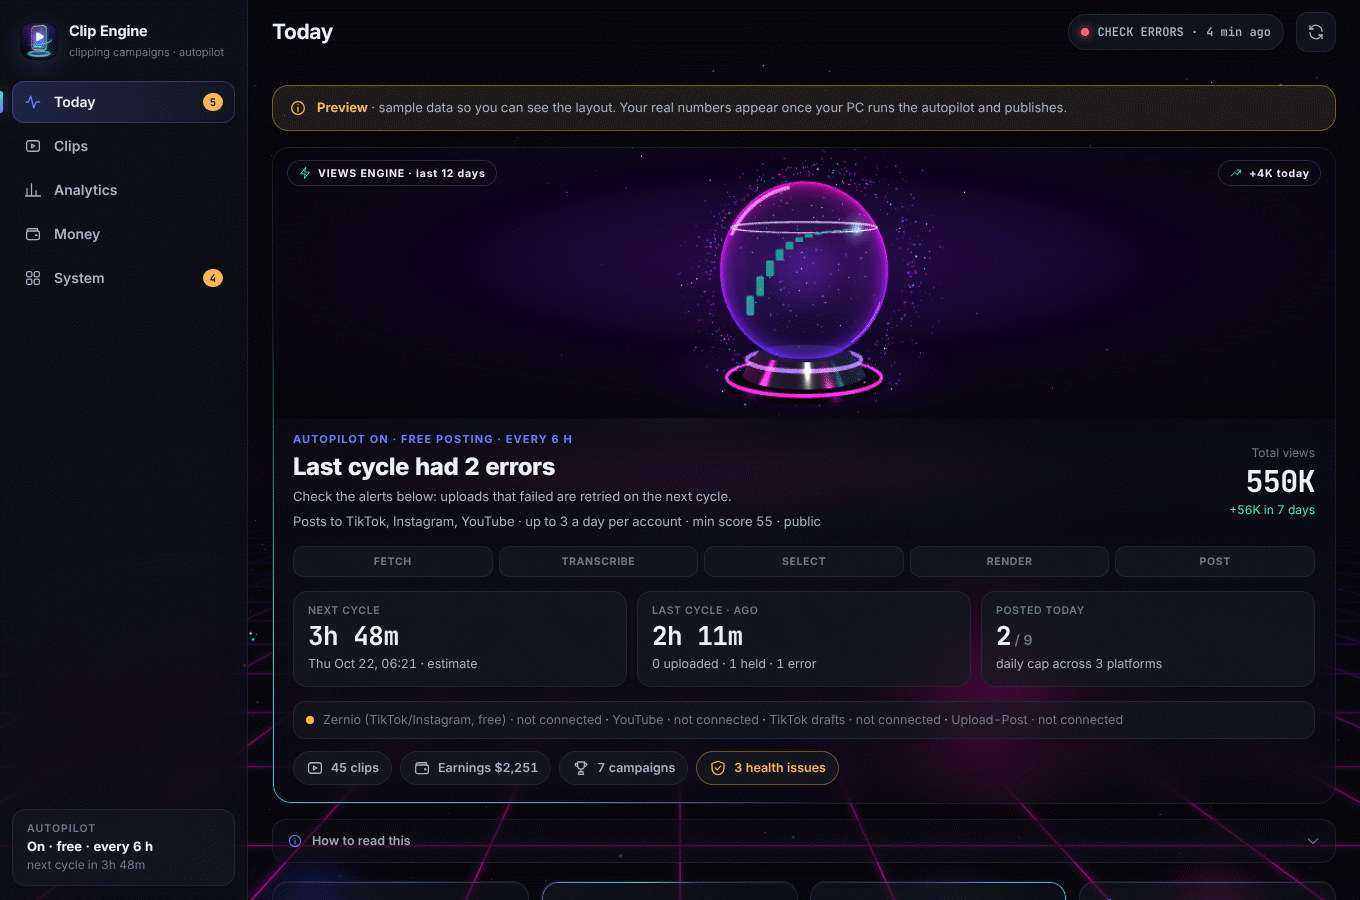
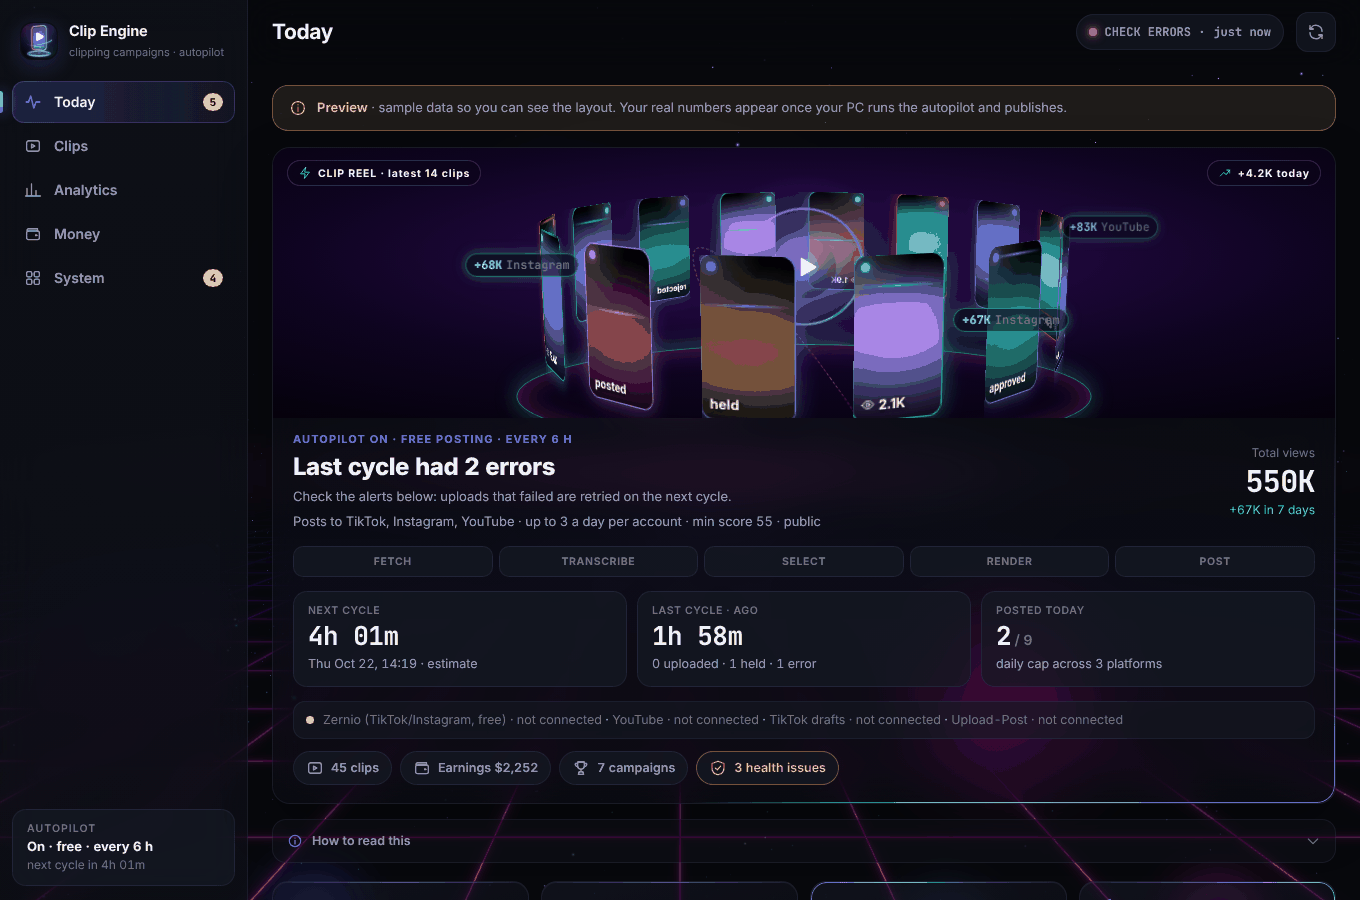
Dashboard: 3D clip reel hero replaces the candle orb
The latest clips orbit as 9:16 cards around a holographic play core with
recent view gains rising off the ring; drag to spin, tap to open a clip.
The candle globe stays the NQ dashboard's own.

Claude-Session: https://claude.ai/code/session_012xr9Sjrns9iSfpq9jZu7Lw

diff --git a/clipper/dashboard_page.html b/clipper/dashboard_page.html
@@ -495,9 +495,40 @@ html[data-fx="max"] .card :is(.stat, .item), html.bg2on .card :is(.stat, .item) 
 .hero3d { position: relative; height: 270px; margin: -18px -20px 14px; background: radial-gradient(90% 80% at 50% 40%, #2c0a52, #0e0420 55%, #030107); overflow: hidden; touch-action: pan-y; }
 .hero3d .fx-canvas { display: block; position: absolute; inset: 0; width: 100% !important; height: 100% !important; }
 .fx3d .fx-canvas { width: 100% !important; height: 100% !important; }
-.hero3d .orbfb { position: absolute; inset: 0; display: grid; place-items: center; }
-.hero3d .orbfb svg { width: min(100%, 520px); height: 100%; overflow: visible; }
-.hero3d.fx-live .orbfb { display: none; }
+/* the reel ring: the latest clips as 9:16 cards orbiting a holographic play core; drag to spin, tap to open */
+.reel { position: absolute; inset: 0; perspective: 900px; perspective-origin: 50% 38%; cursor: grab; user-select: none; -webkit-user-select: none; --R: 250px; --cw: 70px; }
+.reel.drag { cursor: grabbing; }
+.reel-stage { position: absolute; left: 50%; top: 50%; width: 0; height: 0; transform-style: preserve-3d; transform: translateY(-6px) rotateX(-9deg) rotateY(var(--drag, 0deg)); transition: transform .5s var(--ease); }
+.reel.drag .reel-stage { transition: none; }
+.reel-ring { position: absolute; transform-style: preserve-3d; animation: reelspin 46s linear infinite; }
+.reel:hover .reel-ring, .reel.drag .reel-ring { animation-play-state: paused; }
+@keyframes reelspin { to { transform: rotateY(-360deg); } }
+.rc { position: absolute; left: calc(var(--cw) / -2); top: calc(var(--cw) * -.89); width: var(--cw); aspect-ratio: 9 / 16; border-radius: 10px; overflow: hidden; padding: 0; border: 0;
+  transform: rotateY(var(--a)) translateZ(var(--R)); background: linear-gradient(160deg, #241552, #0b0620); box-shadow: 0 0 0 1px color-mix(in srgb, var(--c) 70%, transparent), 0 0 18px color-mix(in srgb, var(--c) 45%, transparent); cursor: pointer; }
+.rc img { width: 100%; height: 100%; object-fit: cover; display: block; pointer-events: none; }
+.rc::after { content: ""; position: absolute; inset: 0; background: linear-gradient(115deg, rgba(255,255,255,.22), transparent 38%), linear-gradient(0deg, rgba(5,2,15,.85), transparent 45%); pointer-events: none; }
+.rc b svg { vertical-align: -1px; margin-right: 3px; }
+.rc b { position: absolute; left: 6px; right: 6px; bottom: 5px; z-index: 1; font: 700 10.5px var(--sans); color: #fff; text-align: left; white-space: nowrap; overflow: hidden; text-overflow: ellipsis; text-shadow: 0 1px 4px #000; }
+.rc i { position: absolute; top: 5px; left: 5px; z-index: 1; width: 7px; height: 7px; border-radius: 50%; background: var(--c); box-shadow: 0 0 8px var(--c); }
+.rc.empty { background: repeating-linear-gradient(0deg, rgba(255,255,255,.03) 0 6px, transparent 6px 12px), linear-gradient(160deg, #1a1040, #08041a); }
+.rc.empty b { color: var(--muted); font-weight: 600; }
+.rc .scan { position: absolute; left: 0; right: 0; height: 2px; top: 0; z-index: 1; background: linear-gradient(90deg, transparent, var(--c), transparent); opacity: .8; animation: rcscan 3.2s linear infinite; animation-delay: var(--d, 0s); }
+@keyframes rcscan { from { transform: translateY(0); } to { transform: translateY(calc(var(--cw) * 1.78)); } }
+.reel-core { position: absolute; left: -46px; top: -56px; width: 92px; height: 92px; transform: translateZ(0); display: grid; place-items: center; pointer-events: none; }
+.reel-core::before { content: ""; position: absolute; inset: -14px; border-radius: 50%; background: conic-gradient(from 0deg, #ff4fd8, #7c6cff, #3ee0c8, #ff4fd8); filter: blur(1px); opacity: .9; animation: corespin 6s linear infinite;
+  -webkit-mask: radial-gradient(farthest-side, transparent calc(100% - 3px), #000 calc(100% - 2px)); mask: radial-gradient(farthest-side, transparent calc(100% - 3px), #000 calc(100% - 2px)); }
+.reel-core::after { content: ""; position: absolute; inset: -40px; border-radius: 50%; background: radial-gradient(closest-side, rgba(124,108,255,.45), transparent); animation: corepulse 2.6s ease-in-out infinite; }
+@keyframes corespin { to { transform: rotate(360deg); } }
+@keyframes corepulse { 50% { transform: scale(1.18); opacity: .55; } }
+.reel-core span { position: relative; z-index: 1; width: 64px; height: 64px; border-radius: 50%; display: grid; place-items: center; background: radial-gradient(circle at 35% 30%, rgba(255,255,255,.35), rgba(124,108,255,.25) 45%, rgba(10,4,30,.85)); box-shadow: inset 0 0 18px rgba(255,255,255,.18), 0 0 30px rgba(124,108,255,.6); }
+.reel-core svg { width: 26px; height: 26px; margin-left: 4px; filter: drop-shadow(0 0 8px #9ffff0); }
+.reel-floor { position: absolute; left: 50%; top: 50%; width: calc(var(--R) * 2.3); height: calc(var(--R) * .42); transform: translate(-50%, 58%); border-radius: 50%; pointer-events: none;
+  border: 1.5px solid rgba(62,224,200,.55); box-shadow: 0 0 22px rgba(62,224,200,.35), inset 0 0 26px rgba(255,79,216,.25); }
+.reel-floor::after { content: ""; position: absolute; inset: 18%; border-radius: 50%; border: 1px dashed rgba(255,79,216,.45); animation: corespin 30s linear infinite; }
+.reel-pop { position: absolute; left: var(--x); bottom: 26%; z-index: 2; pointer-events: none; font: 700 12px var(--mono, monospace); color: #9ffff0; padding: 3px 8px; border-radius: 99px; background: rgba(8,20,30,.6); border: 1px solid rgba(62,224,200,.45);
+  box-shadow: 0 0 14px rgba(62,224,200,.35); opacity: 0; animation: reelpop 7s ease-out infinite; animation-delay: var(--d); white-space: nowrap; }
+.reel-pop em { font-style: normal; color: var(--muted); font-weight: 600; margin-left: 4px; }
+@keyframes reelpop { 0% { opacity: 0; transform: translateY(20px) scale(.9); } 10% { opacity: 1; transform: translateY(0) scale(1); } 45% { opacity: 1; } 60%, 100% { opacity: 0; transform: translateY(-120px) scale(.96); } }
 .orb-spin { transform-origin: 260px 135px; animation: orbspin 14s linear infinite; } .orb-spin2 { transform-origin: 260px 135px; animation: orbspin 22s linear infinite reverse; }
 @keyframes orbspin { to { transform: rotate(360deg); } }
 .orb-float { animation: floaty2 6s ease-in-out infinite; } @keyframes floaty2 { 0%, 100% { transform: translateY(-4px); } 50% { transform: translateY(4px); } }
@@ -561,6 +592,7 @@ html:not([data-fx="off"]) .page.entering > .card, html:not([data-fx="off"]) .pag
   .page { padding: 14px var(--gutter) calc(100px + env(safe-area-inset-bottom)); }
   .card, .tile, .stat { backdrop-filter: none; -webkit-backdrop-filter: none; }
   .hero3d { height: 230px; margin: -14px -15px 12px; } .hero-tag.r { top: auto; bottom: 12px; }
+  .reel { --R: 150px; --cw: 54px; } .reel-core { transform: translateZ(0) scale(.78); } .reel-pop:nth-of-type(n+4) { display: none; }
   .card { padding: 14px 15px; border-radius: 16px; }
   .g2, .g3, .g21, .g12 { grid-template-columns: 1fr; } .span2 { grid-column: auto; }
   .grid { gap: 12px; margin-bottom: 12px; }
@@ -1155,29 +1187,29 @@ function bgFrame(now) {
 addEventListener('resize', () => { if (document.documentElement.classList.contains('bg2on')) { bgSize(); if (!BG.raf) BG.raf = requestAnimationFrame(bgFrame); } });
 document.addEventListener('visibilitychange', () => { if (!document.hidden && document.documentElement.classList.contains('bg2on') && !BG.raf) BG.raf = requestAnimationFrame(bgFrame); });
 
-// the hero orb's 2D stand-in: daily view gains as glowing columns inside a glass sphere with two rings
-function orbFb(gains) {
-  const g = gains.slice(-12), mx = Math.max(1, ...g.map(x => x.v)), n = g.length, cx = 260, cy = 135, R = 96, id = uid('o');
-  const bw = n ? 120 / n : 10;
-  return `<svg viewBox="0 0 520 270" preserveAspectRatio="xMidYMid meet" aria-hidden="true"><defs>
-      <radialGradient id="${id}g" cx="40%" cy="32%" r="75%"><stop offset="0" stop-color="#fff" stop-opacity=".22"/><stop offset=".35" stop-color="var(--accent)" stop-opacity=".22"/><stop offset="1" stop-color="#0a0418" stop-opacity=".2"/></radialGradient>
-      <linearGradient id="${id}b" x1="0" x2="0" y1="0" y2="1"><stop offset="0" stop-color="#9ffff0"/><stop offset="1" stop-color="var(--accent)" stop-opacity=".35"/></linearGradient>
-      <filter id="${id}f" x="-50%" y="-50%" width="200%" height="200%"><feGaussianBlur stdDeviation="6"/></filter>
-      <clipPath id="${id}c"><circle cx="${cx}" cy="${cy}" r="${R - 4}"/></clipPath></defs>
-    <circle cx="${cx}" cy="${cy}" r="${R + 30}" fill="var(--accent)" opacity=".10" filter="url(#${id}f)"/>
-    <g class="orb-float">
-      <circle cx="${cx}" cy="${cy}" r="${R}" fill="url(#${id}g)" stroke="rgba(200,190,255,.35)" stroke-width="1.2"/>
-      <g clip-path="url(#${id}c)">${g.map((d, i) => { const h = 12 + 110 * d.v / mx, x = cx - 60 + i * bw + bw * .18; return `<rect x="${x.toFixed(1)}" y="${(cy + 50 - h).toFixed(1)}" width="${(bw * .64).toFixed(1)}" height="${h.toFixed(1)}" rx="2" fill="url(#${id}b)" opacity="${(.55 + .45 * (i + 1) / n).toFixed(2)}"/>`; }).join('')}
-        <line x1="${cx - 90}" x2="${cx + 90}" y1="${cy + 50}" y2="${cy + 50}" stroke="rgba(255,255,255,.35)"/></g>
-      <g class="orb-spin"><ellipse cx="${cx}" cy="${cy}" rx="${R + 34}" ry="22" fill="none" stroke="var(--accent-2)" stroke-opacity=".55" stroke-width="1.4" transform="rotate(-14 ${cx} ${cy})"/><circle cx="${cx + R + 34}" cy="${cy}" r="3.5" fill="#9ffff0" transform="rotate(-14 ${cx} ${cy})"/></g>
-      <g class="orb-spin2"><ellipse cx="${cx}" cy="${cy}" rx="${R + 58}" ry="34" fill="none" stroke="var(--accent)" stroke-opacity=".35" stroke-width="1" stroke-dasharray="2 6" transform="rotate(10 ${cx} ${cy})"/></g>
-      <ellipse cx="${cx - 30}" cy="${cy - 52}" rx="34" ry="14" fill="#fff" opacity=".10" transform="rotate(-24 ${cx - 30} ${cy - 52})"/>
-    </g></svg>`;
+// the hero: the latest clips as 9:16 cards on a slowly turning 3D ring around a play core, with recent view gains rising off it
+function reelHTML() {
+  const all = [...CLIPS()].sort((x, y) => (!!y.thumb - !!x.thumb) || (tms(y.created) || 0) - (tms(x.created) || 0));
+  const n = Math.max(10, Math.min(14, all.length)), cards = [];
+  for (let i = 0; i < n; i++) {
+    const c = all[i], a = (360 / n) * i, p = c && (c.uploads || [])[0]?.platform, col = p ? pcol(p) : 'var(--accent)', d = `--a:${a.toFixed(1)}deg;--c:${col};--d:${(i * .37).toFixed(2)}s`;
+    cards.push(c ? `<button type="button" class="rc" data-clip="${esc(c.id)}" style="${d}" aria-label="${esc(c.title)}">${c.thumb ? `<img src="${esc(c.thumb)}" alt="" loading="lazy" decoding="async" onerror="this.remove()">` : ''}<i></i><span class="scan"></span><b>${(c.uploads || []).some(u => u.state === 'live') ? icon('eye', 11) + kfmt(c.views || 0) : esc((STATUS[c.status] || [c.status || ''])[0])}</b></button>`
+      : `<span class="rc empty" style="${d}"><span class="scan"></span><b>next clip</b></span>`);
+  }
+  const pops = all.filter(c => c.views).sort((x, y) => y.views - x.views).slice(0, 6)
+    .map((c, i) => `<span class="reel-pop" style="--x:${[8, 74, 18, 64, 38, 84][i]}%;--d:${(i * 1.17).toFixed(2)}s">+${kfmt(c.views)}<em>${esc(pname((c.uploads || [])[0]?.platform || ''))}</em></span>`).join('');
+  return `<div class="reel" id="reel"><div class="reel-floor"></div><div class="reel-stage"><div class="reel-ring">${cards.join('')}</div>
+    <div class="reel-core"><span><svg viewBox="0 0 24 24" fill="#fff"><path d="M7 4.5v15a1 1 0 0 0 1.5.86l12.6-7.5a1 1 0 0 0 0-1.72L8.5 3.64A1 1 0 0 0 7 4.5Z"/></svg></span></div></div>${pops}</div>`;
 }
-// 12 daily "candles" of total views for the 3D orb: open = total at the start of the day, close = total at its end
-function viewCandles() {
-  const h = (AN().views_history || []).slice(-13);
-  return h.slice(1).map((r, i) => { const o = h[i].views || 0, c = r.views || 0, t = Math.round(tms(r.date) / 1000); return [t, o, Math.max(o, c), Math.min(o, c), c]; });
+// drag the ring to spin it; a drag never counts as a tap on a card
+function reelDrag() {
+  const r = $('#reel'); if (!r) return;
+  const st = r.querySelector('.reel-stage'); let x0 = null, base = 0, cur = 0, moved = false;
+  r.addEventListener('pointerdown', (e) => { x0 = e.clientX; moved = false; });
+  r.addEventListener('pointermove', (e) => { if (x0 === null) return; const dx = e.clientX - x0; if (!moved && Math.abs(dx) > 6) { moved = true; r.classList.add('drag'); try { r.setPointerCapture(e.pointerId); } catch (_) {} } if (moved) { cur = base + dx * .45; st.style.setProperty('--drag', cur + 'deg'); } });
+  const end = () => { if (x0 === null) return; x0 = null; base = cur; r.classList.remove('drag'); };
+  r.addEventListener('pointerup', end); r.addEventListener('pointercancel', end);
+  r.addEventListener('click', (e) => { if (moved) { e.stopPropagation(); e.preventDefault(); moved = false; } }, true);
 }
 
 // ===================================================================== TODAY
@@ -1203,8 +1235,8 @@ function pageToday(el) {
   const plat = (a.platforms || []).map(pname).join(', ') || '—';
   const byp = E().by_platform || {}, plist = Object.keys(byp).sort((x, y) => (byp[y].views || 0) - (byp[x].views || 0));
   el.innerHTML = banners() + `
-    <div class="card hero-card"><div class="hero3d" id="tdOrb"><div class="orbfb">${orbFb(gains)}</div>
-        <span class="hero-tag">${icon('bolt')}VIEWS ENGINE · last ${Math.min(12, gains.length)} days</span>${s.views_24h ? `<span class="hero-tag r">${icon('long')}+${kfmt(s.views_24h)} today</span>` : ''}</div>
+    <div class="card hero-card"><div class="hero3d" id="tdOrb">${reelHTML()}
+        <span class="hero-tag">${icon('bolt')}CLIP REEL · latest ${Math.min(14, CLIPS().length)} clips</span>${s.views_24h ? `<span class="hero-tag r">${icon('long')}+${kfmt(s.views_24h)} today</span>` : ''}</div>
       <div class="state">
         <div><div class="eyebrow">${a.enabled ? 'Autopilot on' : 'Autopilot off'} · ${esc(a.via || '—')} posting · every ${num(a.every_hours || 6)} h</div>
           <h2>${esc(h2)}</h2><p>${hp}</p><p class="small mut" style="margin-top:6px">Posts to ${esc(plat)} · up to ${num(a.cap)} a day per account · min score ${num(a.min_score)} · ${esc(a.privacy || '')}</p></div>
@@ -1255,7 +1287,7 @@ function pageToday(el) {
     else lineChart($('#tdChart'), hist.map(r => ({ x: fDate(r.date), y: r.views || 0, tip: `<b>${esc(fDate(r.date))}</b><span>${num(r.views || 0)} views in total</span>` })), { h: 220, color: 'var(--accent-2)', empty: 'No view history yet.' }); };
   drawV(store.get('tdV', 'total')); onSeg('tdV', drawV);
   onSeg('todoSeg', (k) => { store.set('todoTab', k); $('#todoBody').innerHTML = todoBody(k); });
-  fx3d('today-orb', $('#tdOrb'), 'orb', { bars: viewCandles(), pools: [], price: s.views || 0, mood: moodNow() });
+  reelDrag();
 }
 const daysLeft = () => { const d = new Date(), e = new Date(d.getFullYear(), d.getMonth() + 1, 0); return e.getDate() - d.getDate() + 1; };
 function pipeHTML() {
